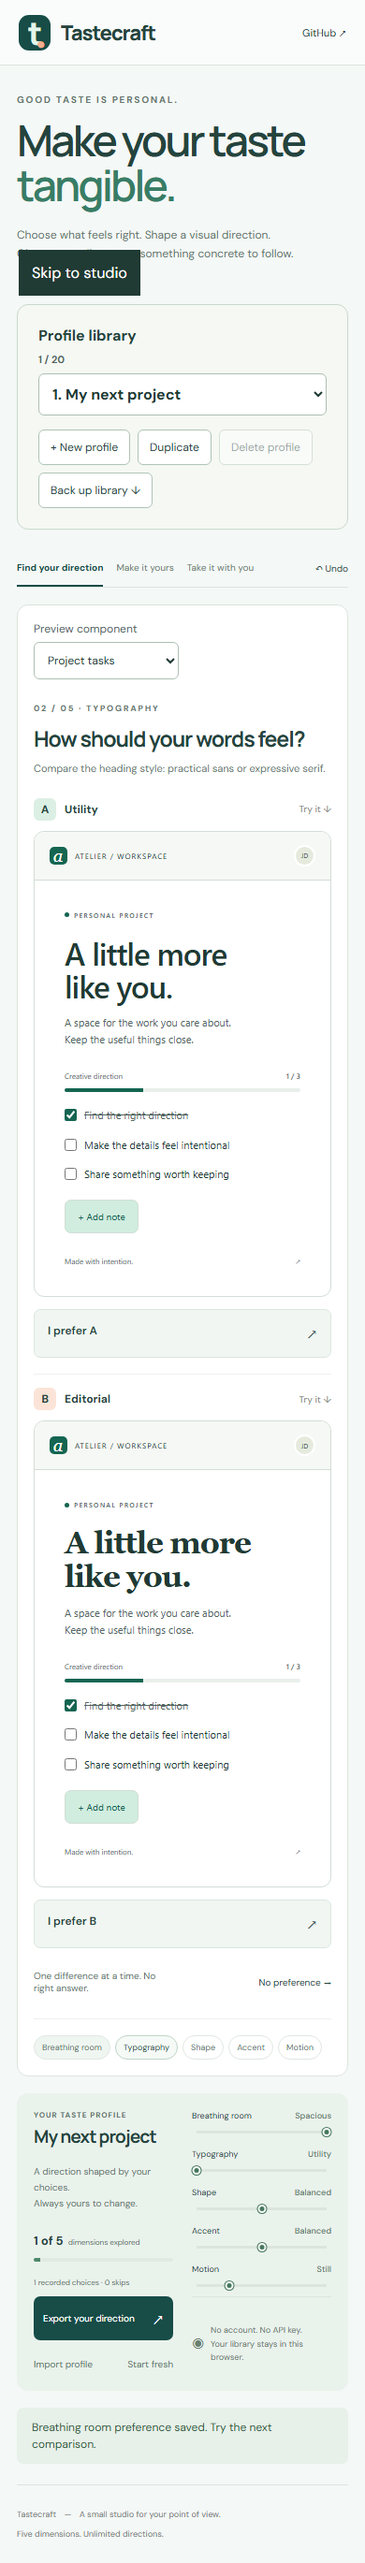
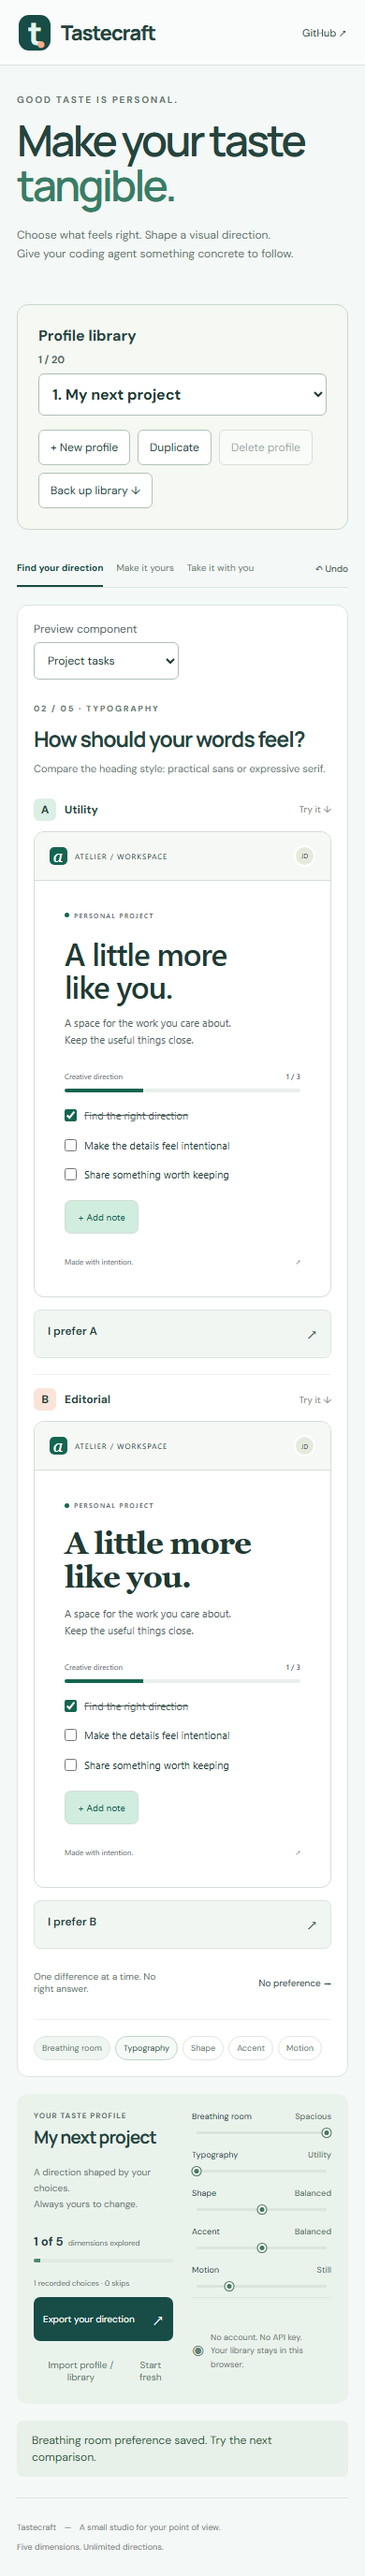
release: document and verify Tastecraft 0.2 profile libraries

diff --git a/tests/studio.spec.ts b/tests/studio.spec.ts
@@ -69,6 +69,17 @@ test("storage errors are visible and do not prevent exporting; no external asset
   const download = page.waitForEvent("download");
   await page.getByRole("button", { name: "Download SKILL.md" }).click();
   expect((await download).suggestedFilename()).toBe("SKILL.md");
+  await page
+    .getByRole("button", { name: "+ New profile", exact: true })
+    .click();
+  await page.getByLabel("Project name").fill("Unsaved but exportable");
+  await expect(page.getByRole("alert")).toContainText("storage is unavailable");
+  const backupDownload = page.waitForEvent("download");
+  await page.getByRole("button", { name: "Back up library" }).click();
+  const backup = await backupDownload;
+  const unsaved = JSON.parse(await readFile((await backup.path())!, "utf8"));
+  expect(unsaved.profiles).toHaveLength(2);
+  expect(unsaved.profiles[1].profile.name).toBe("Unsaved but exportable");
   expect(external).toEqual([]);
 });
 test("corrupt saved data recovers and confirmation is keyboard dismissible", async ({

diff --git a/src/library.test.ts b/src/library.test.ts
@@ -24,6 +24,21 @@ function memoryStorage(initial: Record<string, string> = {}) {
   };
 }
 describe("profile library", () => {
+  it("opens an exportable session when browser storage access is denied", () => {
+    const storage = {
+      getItem: () => {
+        throw new Error("Access denied");
+      },
+      setItem: () => {
+        throw new Error("Access denied");
+      },
+    };
+    const result = readLibrary(storage);
+    expect(result.error).toContain("could not be loaded");
+    expect(
+      parseLibrary(serializeLibrary(result.library)).profiles,
+    ).toHaveLength(1);
+  });
   it("migrates a v1 profile without deleting or modifying the source", () => {
     const original = JSON.stringify(choose(freshProfile(), "corners", 100));
     const storage = memoryStorage({ [STORAGE_KEY]: original });

diff --git a/src/App.tsx b/src/App.tsx
@@ -587,7 +587,7 @@ export default function App() {
             </button>
             <div className="profile-tools">
               <button onClick={() => input.current?.click()}>
-                Import profile
+                Import profile / library
               </button>
               <button onClick={() => setConfirmReset(true)}>Start fresh</button>
             </div>

diff --git a/src/style.css b/src/style.css
@@ -1436,3 +1436,15 @@ footer strong {
   width: 100%;
   min-width: 0;
 }
+.skip-link {
+  clip-path: inset(50%);
+  width: 1px;
+  height: 1px;
+  overflow: hidden;
+}
+.skip-link:focus {
+  clip-path: none;
+  width: auto;
+  height: auto;
+  overflow: visible;
+}

diff --git a/README.md b/README.md
@@ -2,7 +2,7 @@
 
 **Turn your visual choices into a design direction your coding agent can use.**
 
-Compare functioning interfaces. Refine five dimensions. Export an agent skill, CSS tokens, a portable profile, and a standalone React component.
+Compare functioning interfaces. Refine five dimensions. Keep a library of project directions, then export an agent skill, CSS tokens, a portable profile, and a standalone React component.
 
 [Try the studio](https://alfonza1.github.io/tastecraft/) · [Architecture](docs/architecture.md) · [Contribute](CONTRIBUTING.md)
 
@@ -51,23 +51,33 @@ Use the CSS variables in your own components:
 }
 ```
 
-## What the first release does
+## What works
 
 - Five independently controlled comparisons, repeatable in any order.
-- Real interactive previews, rather than screenshots passed off as an application.
+- Two interactive preview components: project tasks with notes, and notification settings with a working form. Switch components while comparing the same design axis.
 - Transparent preference aggregation: each non-skipped choice is 0 or 100; the retained choices on that axis are averaged. Conflicting choices move toward the middle.
-- Manual refinement, up to 30 in-session undo snapshots for choices/import/reset, and a confirmed fresh start.
-- Browser-local persistence, validated profile imports, and four working exports.
+- Manual refinement, up to 30 in-session undo snapshots for choices/reset, and a confirmed fresh start.
+- Up to 20 named profiles: create, duplicate, switch, rename, and confirm deletion. Each retains its own values and comparison evidence.
+- Whole-library JSON backups, non-destructive validated imports, and four individual profile exports.
+- Safe migration from version 0.1, cross-tab conflict detection, and persistent storage-error feedback.
 - Responsive layout, keyboard focus, reduced-motion support, and a native confirmation dialog.
 - Bundled fonts. No analytics or outbound model calls. Hosting providers still receive ordinary page requests.
 
 ## Honest boundaries
 
-Tastecraft **does not train an AI model**, infer a complete personality, or guarantee what another agent will generate. It captures explicit preferences and gives the agent concrete examples. The first release uses a curated task-card component; importing arbitrary React applications is not supported.
+Tastecraft **does not train an AI model**, infer a complete personality, or guarantee what another agent will generate. It captures explicit preferences and gives the agent concrete examples. The studio uses curated task and settings components; importing arbitrary React applications is not supported. The React export is a standalone task-card reference, regardless of which preview you explored.
 
 Typography and accent are discrete choices behind their sliders; spacing, shape, and motion interpolate. Reduced-motion system settings override animation in the studio and exports. Comparison history retains the latest 100 entries. New comparisons recompute their axis from retained evidence and may replace a manual adjustment. Manual slider/name edits are saved but do not create undo snapshots.
 
-One active profile is stored in this browser. Export before clearing browser data, moving devices, or replacing a profile. Opening the studio on another origin creates a separate local profile. JSON imports are limited to 100 KB and validated; unknown fields are discarded.
+## Keep your directions safe
+
+The library is saved locally on this browser and origin. **Back up library** downloads every profile as `tastecraft-library.json`. **Import profile** accepts that backup or an existing version 1 `tastecraft.json`. Import adds new profiles with fresh identifiers and preserves existing work; it never replaces a matching name. A library holds 20 profiles. Individual profiles are limited to 100 KB; library imports to 1 MB. Invalid or over-capacity imports are rejected without changes.
+
+Version 0.1 profiles migrate automatically into the library. The original `tastecraft.profile.v1` storage entry remains untouched as a fallback, but later changes live in `tastecraft.library.v2`. Corrupt data is not silently overwritten.
+
+If another tab saves changes, this tab pauses saving and keeps its in-memory work. Back up this tab, then **Load latest library** to use the saved version; import your backup to preserve both directions. **Replace browser storage** is an explicit, confirmed overwrite option. Quota/storage failures show a persistent warning, while all editing and exports remain available. There is no automatic merging or cloud backup. Undo belongs to the active session and clears when switching profiles; deletion cannot be undone.
+
+Persistence requires the Web Locks API on a secure origin (HTTPS or localhost). Unsupported browsers can edit and export with a visible saving warning. Export before clearing browser data or closing a tab whose saving is paused. Opening another origin creates a separate library.
 
 ## Development and validation
 
@@ -80,7 +90,7 @@ npx playwright install chromium
 npm run test:e2e
 ```
 
-The end-to-end suite exercises actual interactions, profile recovery, invalid imports, downloads, responsive overflow, and browser errors. It refreshes the real desktop/mobile screenshots in `docs/`.
+The end-to-end suite exercises actual interactions, migration, independent profiles, two concurrent tabs, storage recovery, invalid imports, backup downloads, responsive overflow, and browser errors. It refreshes the real desktop/mobile screenshots in `docs/`. Unit tests also compile the exported React reference with TypeScript.
 
 `npm run preview` serves the production build on port 4322. `npm run dev` uses the same fixed port and fails if occupied. Stop one before starting the other.
 

diff --git a/docs/architecture.md b/docs/architecture.md
@@ -5,7 +5,8 @@ Tastecraft is a static, local-first React application. Nothing requires a server
 ```text
 Choices / manual controls / JSON import
                   ↓
-            Profile (version 1)
+       Library (version 2, up to 20 profiles)
+         Active profile (version 1)
              ↙            ↘
       localStorage      token compiler
                           ↙        ↘
@@ -15,7 +16,10 @@ Choices / manual controls / JSON import
 ## Modules
 
 - `src/model.ts`: five axes, choice aggregation, token generation, strict import parser, storage loading.
+- `src/library.ts`: bounded library schema, additive imports, v1 migration, identity-safe duplication, snapshot-checked persistence.
+- `src/useLibrary.ts`: Web Locks serialization, storage-event conflict detection, persistent error state, explicit recovery.
 - `src/Preview.tsx`: curated interactive example. Internal checkbox/note state is independent of design evidence.
+- `src/SettingsPreview.tsx`: notification-settings form with independent in-memory controls and save feedback.
 - `src/exports.ts`: deterministic CSS, skill, JSON, and standalone React output; browser file downloads.
 - `src/App.tsx`: studio navigation, profile editing, evidence capture, in-session undo, import/export feedback.
 - `src/style.css`: studio styling and token-driven preview styling. Bundled fontsource packages avoid runtime font requests.
@@ -34,6 +38,10 @@ Choices / manual controls / JSON import
 
 **Relative build paths.** Vite `base: './'` supports repository Pages URLs and nested static deployments without a router rewrite.
 
+**Non-destructive migration.** A valid v2 library takes precedence. With no v2 entry, the v1 profile seeds a library; the original entry is never modified. Parse failures open a temporary working library and pause writes. JSON exports retain the v1 profile schema. Whole-library exports use v2, and imports always append fresh identities after validating the entire file and capacity.
+
+**Cooperating-tab concurrency.** Each write acquires the origin's `tastecraft.library.v2` Web Lock, compares the current serialized storage snapshot to the last observed snapshot, then writes. An intervening write or storage event pauses persistence. Old scheduled writes are cancelled when React state changes. Recovery never silently merges: users back up their local work, then explicitly load the latest or replace stored data. Web Locks and HTTPS/localhost are required for persistence; editing/export remains usable without them. Arbitrary noncooperating scripts remain outside this concurrency guarantee.
+
 ## Validation boundaries
 
 Browser end-to-end coverage is Chromium on desktop and mobile viewport sizes. Firefox/WebKit and physical devices have not been verified in this release. The project is designed around standard browser APIs, not a browser extension.
@@ -43,7 +51,7 @@ The contrast axis changes between two curated colors; it is not a general contra
 ## Next steps
 
 1. Additional curated preview components (forms, editorial layouts, navigation) sharing the same tokens.
-2. A profile library with explicit per-project selection.
+2. Per-profile comparison history inspection and optional explicit merging between library backups.
 3. More palettes with automated contrast checks and transparent provenance.
 4. Adapter guidance for popular agent skill discovery conventions.
 5. Optional custom-component integration with a clearly isolated execution boundary.

diff --git a/SECURITY.md b/SECURITY.md
@@ -2,8 +2,10 @@
 
 The studio is a static application with no accounts, API keys, backend, or remote inference. Profiles stay in localStorage and exported files. Your static hosting provider receives ordinary asset requests. Do not put secrets in project names or imported profiles.
 
-Imports are versioned JSON, capped at 100 KB, checked for valid known axes and bounded numeric values. Imported data is never evaluated as code. Exported React is generated only from validated tokens.
+Imports are versioned JSON, capped at 100 KB per individual profile and 1 MB per library, checked for valid known axes, bounded numeric values, unique identifiers and valid active-profile references. A library holds up to 20 profiles. Imported data is never evaluated as code. Exported React is generated only from validated tokens.
 
-Use GitHub's private vulnerability reporting on this repository when available. Do not post exploit details or private data in a public issue. Supported security fixes target the latest 0.1.x release.
+Library writes use the same-origin Web Locks API and compare the saved snapshot before writing. Unexpected changes pause saving; recovery actions require explicit confirmation. This protects against cooperating Tastecraft tabs, not malicious same-origin scripts or browser extensions. Backups remain the durable recovery mechanism. The old version 1 storage entry is retained during migration.
+
+Use GitHub's private vulnerability reporting on this repository when available. Do not post exploit details or private data in a public issue. Supported security fixes target the latest 0.2.x release.
 
 The development server binds to 127.0.0.1. Do not expose it to an untrusted network. Build and serve `dist/` for deployment.

diff --git a/CHANGELOG.md b/CHANGELOG.md
@@ -1,5 +1,14 @@
 # Changelog
 
+## 0.2.0 — 2026-11-17
+
+- Added a library of up to 20 named directions with independent settings/evidence, switching, duplication, and confirmed deletion.
+- Added version 2 library backups and additive imports; version 1 individual exports remain compatible.
+- Migrated existing profiles without altering the original storage entry. Corrupt saved data remains untouched until an explicit replacement.
+- Serialized saves with Web Locks, paused saving on cross-tab conflicts, and added backup-first recovery with confirmed load/overwrite actions.
+- Added a functional notification-settings preview, skip-to-studio navigation, and robust long-name mobile layout.
+- Added migration, library validation, conflict, recovery, capacity, keyboard, and mobile regression coverage.
+
 ## 0.1.0 — 2026-11-17
 
 - Introduced five controlled visual comparisons with functioning task-card previews.
